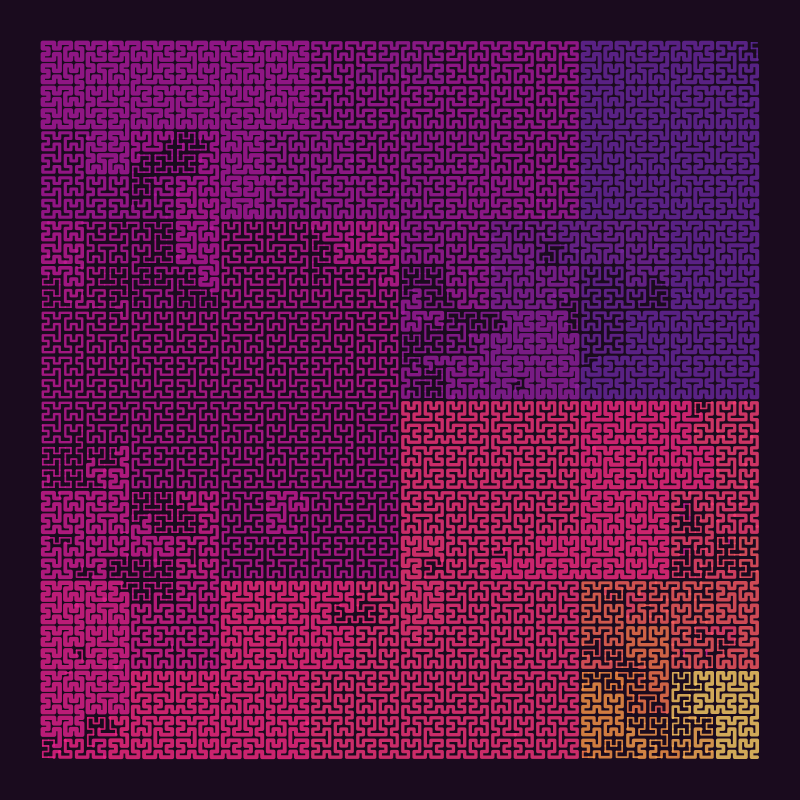
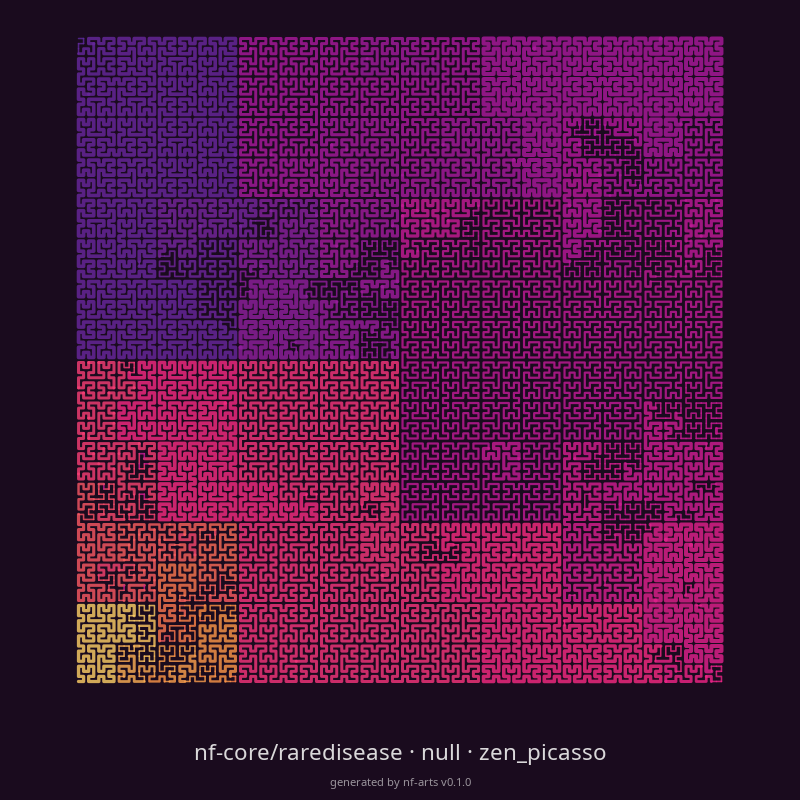
Add a caption with pipeline, version and run name
The caption sits in a band under the artwork, with the nf-arts version
below it. Live runs take it from the workflow metadata, render from the
history or from the execution report next to a trace file. Turn it off
with title = false.

diff --git a/src/test/resources/execution_report.html b/src/test/resources/execution_report.html
@@ -1,0 +1,8 @@
+  <title>[exotic_kimura] Nextflow Workflow Report</title>
+        <dd><pre class="nfcommand"><code>nextflow run 'https://github.com/nf-core/rnavar' -name exotic_kimura -params-file params.yaml</code></pre></dd>
+        <dt class="col-sm-3">Workflow session</dt>
+        <dd class="col-sm-9"><code>1ba77276-0c91-46e0-862d-e017d222de42</code></dd>
+
+        
+          <dt class="col-sm-3">Workflow repository</dt>
+          <dd class="col-sm-9"><code>https://github.com/nf-core/rnavar</code>, revision <code>1.2.2</code> (commit hash <code>ea2c7b6286f5ae18f5b51dc0af6b5330ecd6a13a</code>)</dd>

diff --git a/README.md b/README.md
@@ -47,6 +47,8 @@ nextflow plugin nf-arts:render \
 
 It takes the same options as the `arts` scope (`--style`, `--palette`, `--colors a,b,c`, `--background`, `--width`, `--height`, `--file`), plus `--dir` for another project directory. For a local run it uses the same seed as the live plugin, so it gives the same image.
 
+The caption comes from the history for a local run, or from the `execution_report_*.html` next to the trace file, which nf-core pipelines publish in `pipeline_info/`. Set it yourself with `--pipeline`, `--revision` and `--run-name`, or turn it off with `--title false`.
+
 ## Examples
 
 ```groovy
@@ -81,6 +83,7 @@ arts {
 | `colors` | | List of hex colors. Overrides `palette`. |
 | `background` | from palette | Hex background color. |
 | `width`, `height` | `1200` | Size in pixels (16 to 10000). |
+| `title` | `true` | Caption at the bottom: pipeline (`manifest.name`), version and run name, plus the nf-arts version. |
 
 ### Styles
 
@@ -107,7 +110,7 @@ nf-core megatests, painted with `render` from the trace files on `s3://nf-core-a
 | Pipeline | Radial | Hilbert |
 | --- | :---: | :---: |
 | rnavar, 553 tasks, `nfcore` | ![](docs/images/megatest-rnavar-radial.png) | ![](docs/images/megatest-rnavar-hilbert.png) |
-| sarek, 4645 tasks (3273 cached), `magma` | ![](docs/images/megatest-sarek-radial.png) | ![](docs/images/megatest-sarek-hilbert.png) |
+| sarek, 2314 tasks, `magma` | ![](docs/images/megatest-sarek-radial.png) | ![](docs/images/megatest-sarek-hilbert.png) |
 | rnaseq, 332 tasks, `viridis` | ![](docs/images/megatest-rnaseq-radial.png) | ![](docs/images/megatest-rnaseq-hilbert.png) |
 | mag, 3207 tasks, `ocean` | ![](docs/images/megatest-mag-radial.png) | ![](docs/images/megatest-mag-hilbert.png) |
 | raredisease, 990 tasks, `sunset` | ![](docs/images/megatest-raredisease-radial.png) | ![](docs/images/megatest-raredisease-hilbert.png) |
@@ -115,7 +118,7 @@ nf-core megatests, painted with `render` from the trace files on `s3://nf-core-a
 
 The other styles on the rnavar test profile, the rnavar megatest and the sarek megatest:
 
-| Style | rnavar test, 43 tasks | rnavar megatest, 553 tasks | sarek megatest, 4645 tasks |
+| Style | rnavar test, 43 tasks | rnavar megatest, 553 tasks | sarek megatest, 2314 tasks |
 | --- | :---: | :---: | :---: |
 | ridgeline | ![](docs/images/test-rnavar-ridgeline.png) | ![](docs/images/megatest-rnavar-ridgeline.png) | ![](docs/images/megatest-sarek-ridgeline.png) |
 | phyllotaxis | ![](docs/images/test-rnavar-phyllotaxis.png) | ![](docs/images/megatest-rnavar-phyllotaxis.png) | ![](docs/images/megatest-sarek-phyllotaxis.png) |
